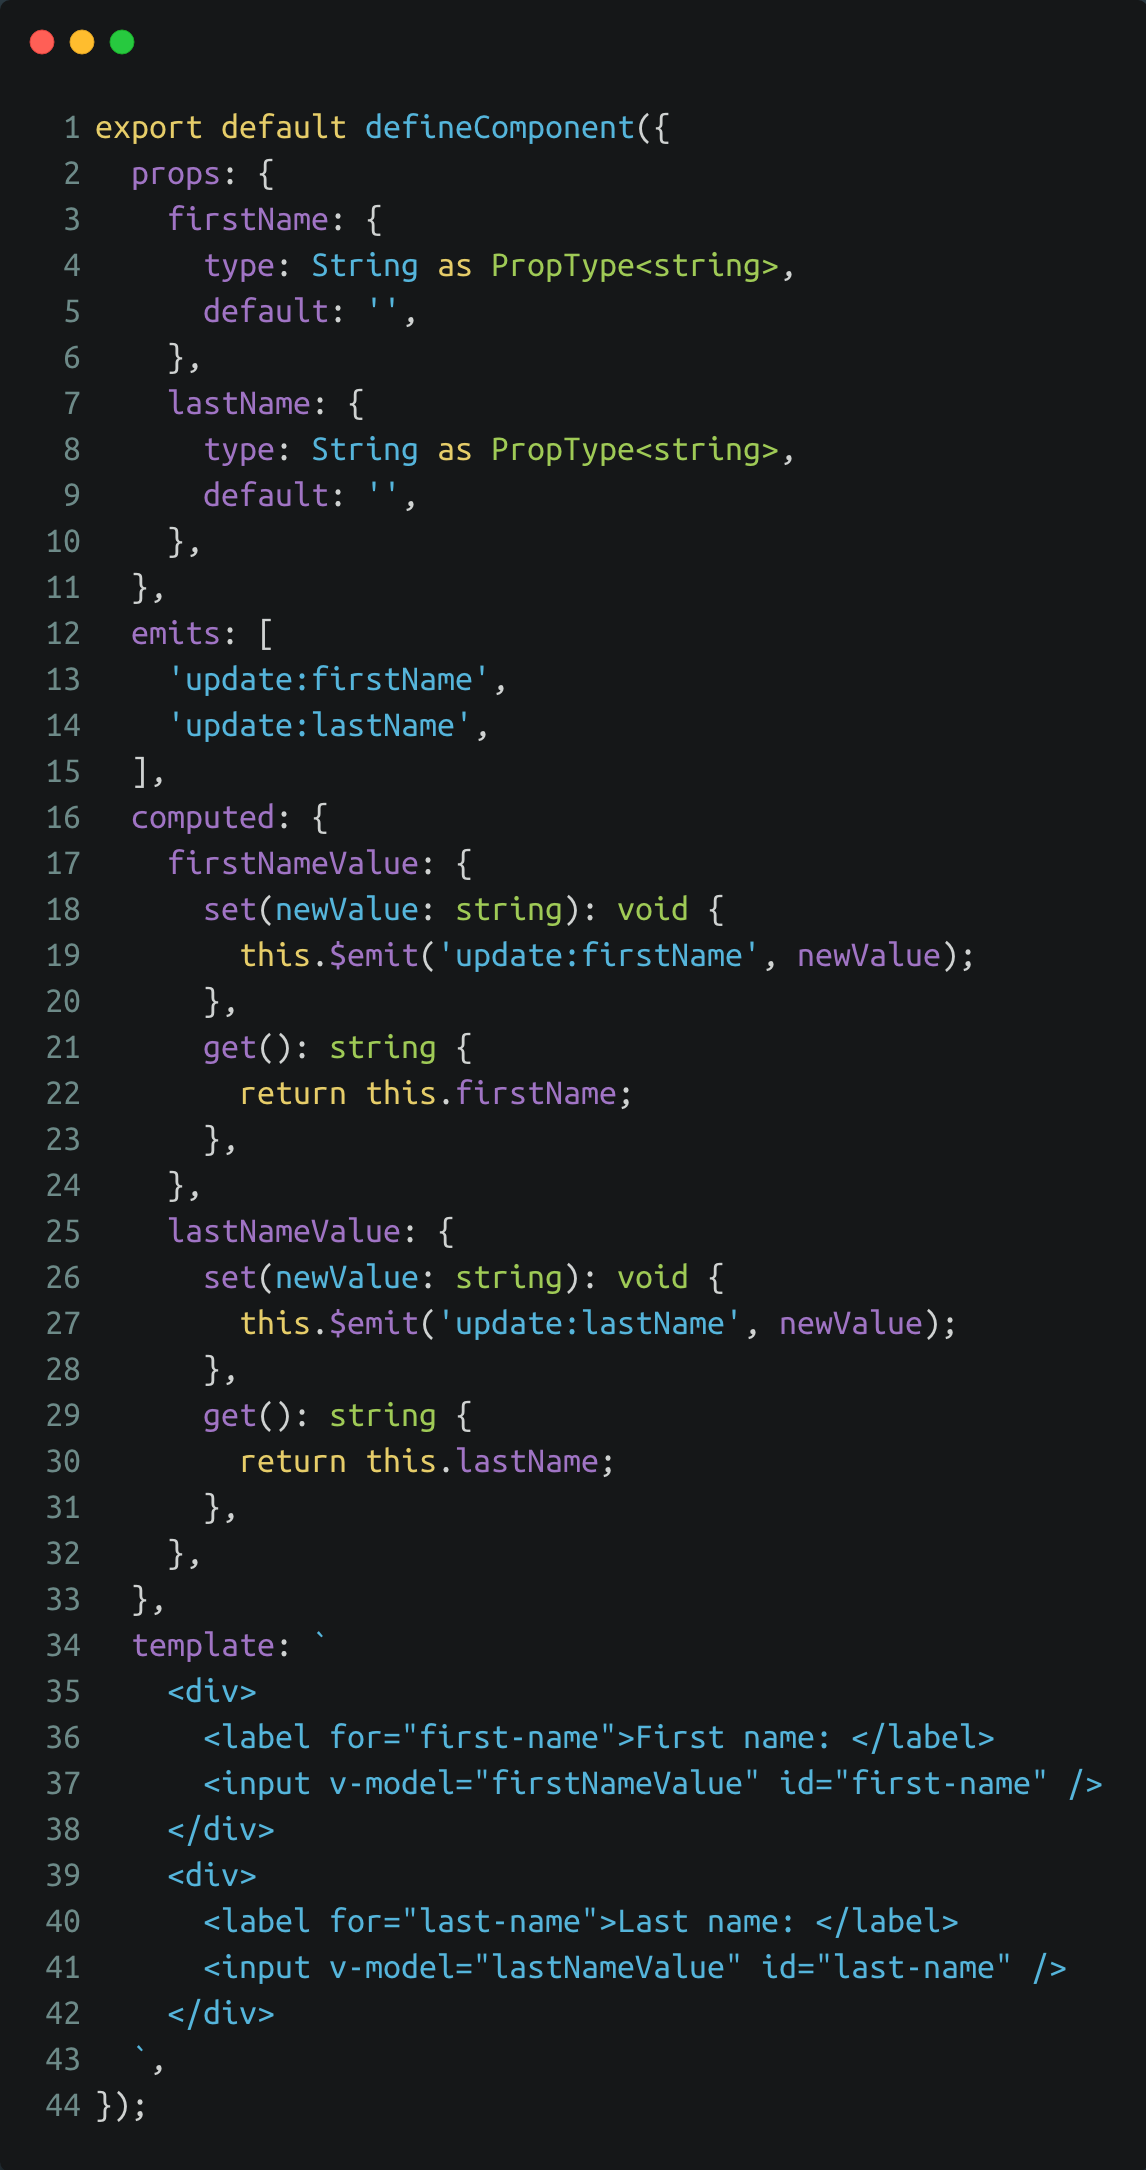
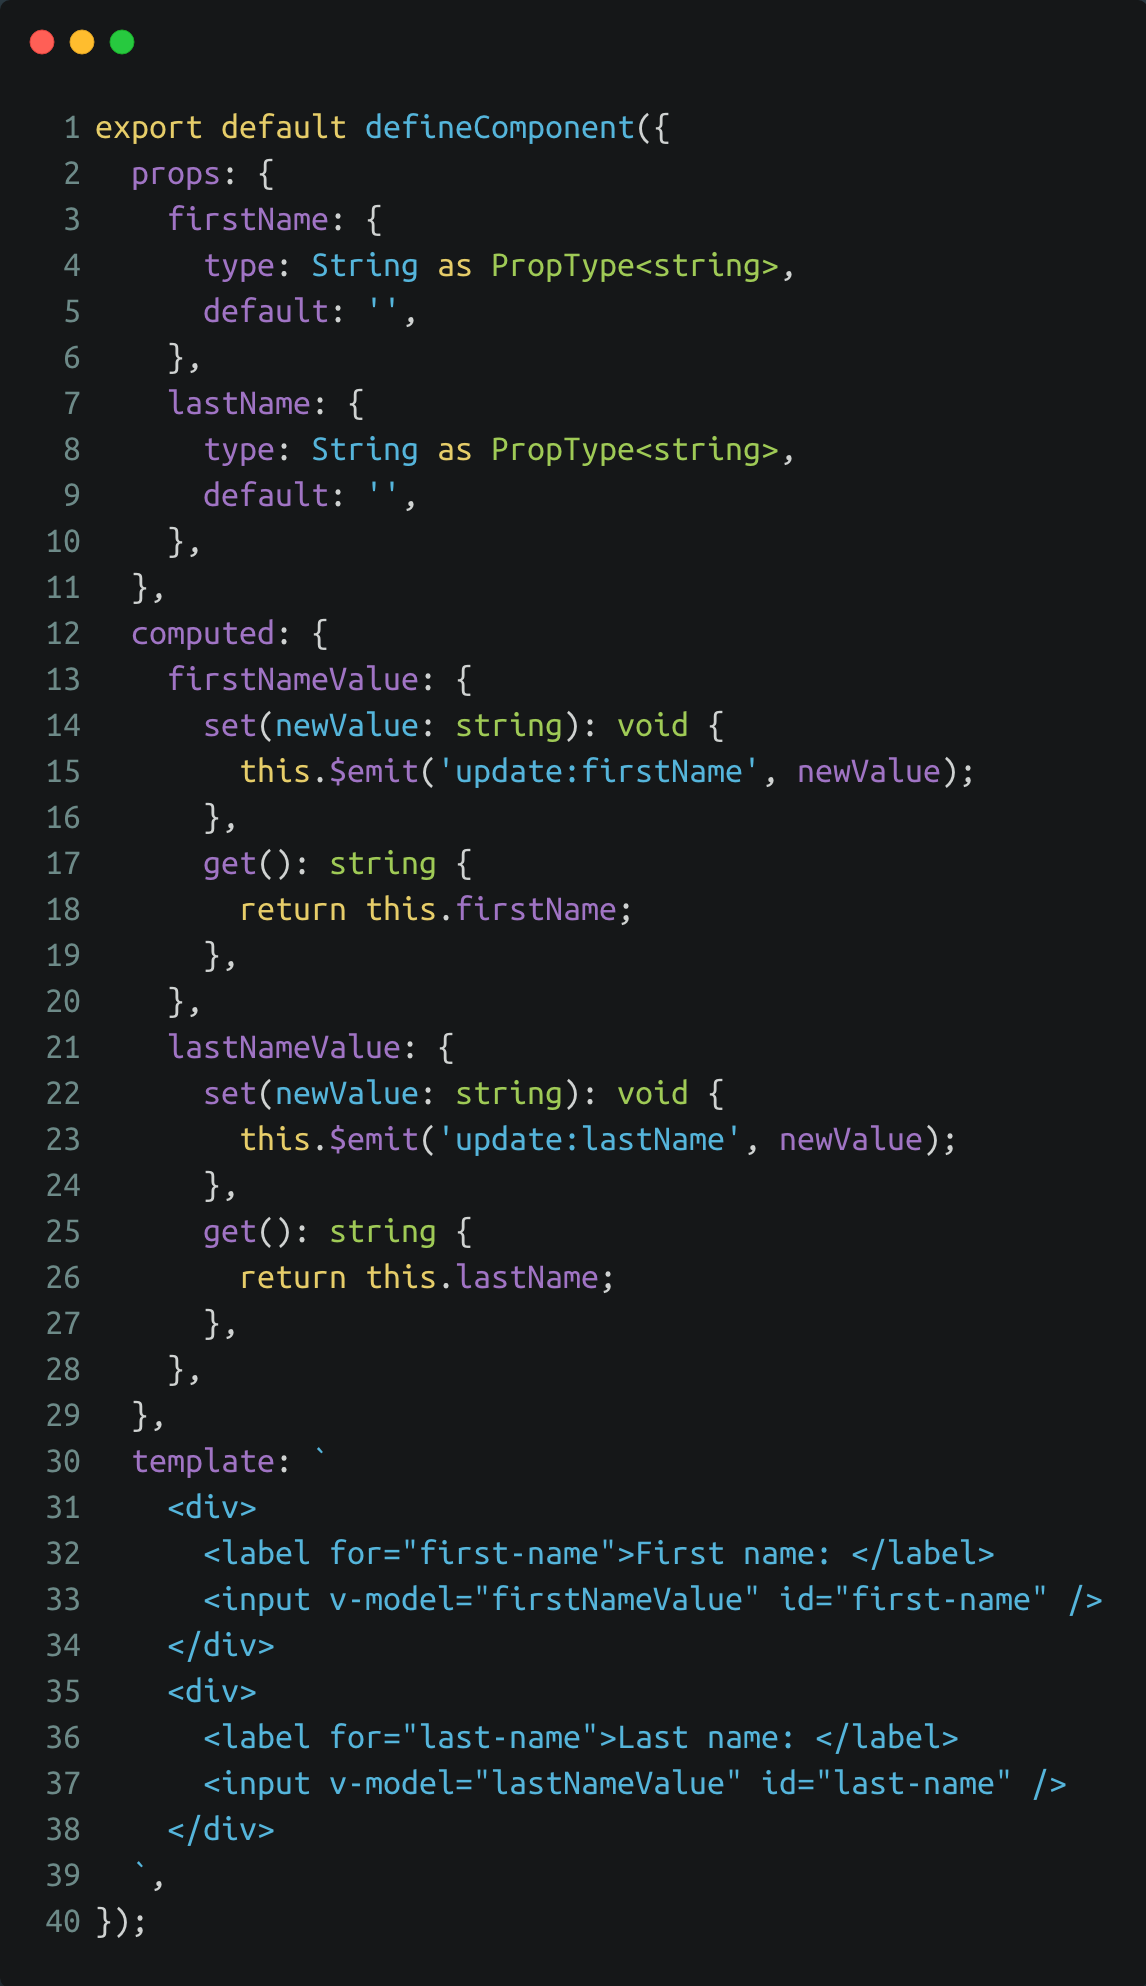
Added screenshots and shortened some code examples

diff --git a/code/examples/emits-1/component.js b/code/examples/emits-1/component.js
@@ -32,12 +32,10 @@ export default defineComponent({
         },
     },
     template: `
-    <div>
-      <label for="field">Field: </label>
-      <input v-model="textValue" id="field" />
-      <button type="button" @click="handleButtonClick">
-        Click
-      </button>
-    </div>
+    <label for="field">Field: </label>
+    <input v-model="textValue" id="field" />
+    <button type="button" @click="handleButtonClick">
+      Click
+    </button>
   `,
 });

diff --git a/code/examples/emits-1/component.ts b/code/examples/emits-1/component.ts
@@ -35,12 +35,10 @@ export default defineComponent({
     },
   },
   template: `
-    <div>
-      <label for="field">Field: </label>
-      <input v-model="textValue" id="field" />
-      <button type="button" @click="handleButtonClick">
-        Click
-      </button>
-    </div>
+    <label for="field">Field: </label>
+    <input v-model="textValue" id="field" />
+    <button type="button" @click="handleButtonClick">
+      Click
+    </button>
   `,
 });

diff --git a/code/examples/v-model-1/component.js b/code/examples/v-model-1/component.js
@@ -10,10 +10,6 @@ export default defineComponent({
             default: '',
         },
     },
-    emits: [
-        'update:firstName',
-        'update:lastName',
-    ],
     computed: {
         firstNameValue: {
             set(newValue) {
@@ -43,3 +39,10 @@ export default defineComponent({
     </div>
   `,
 });
+/*
+Removed for sake of brevity
+emits: [
+  'update:firstName',
+  'update:lastName',
+],
+*/

diff --git a/code/examples/v-model-1/component.ts b/code/examples/v-model-1/component.ts
@@ -11,10 +11,6 @@ export default defineComponent({
       default: '',
     },
   },
-  emits: [
-    'update:firstName',
-    'update:lastName',
-  ],
   computed: {
     firstNameValue: {
       set(newValue: string): void {
@@ -44,3 +40,11 @@ export default defineComponent({
     </div>
   `,
 });
+
+/*
+Removed for sake of brevity
+emits: [
+  'update:firstName',
+  'update:lastName',
+],
+*/
